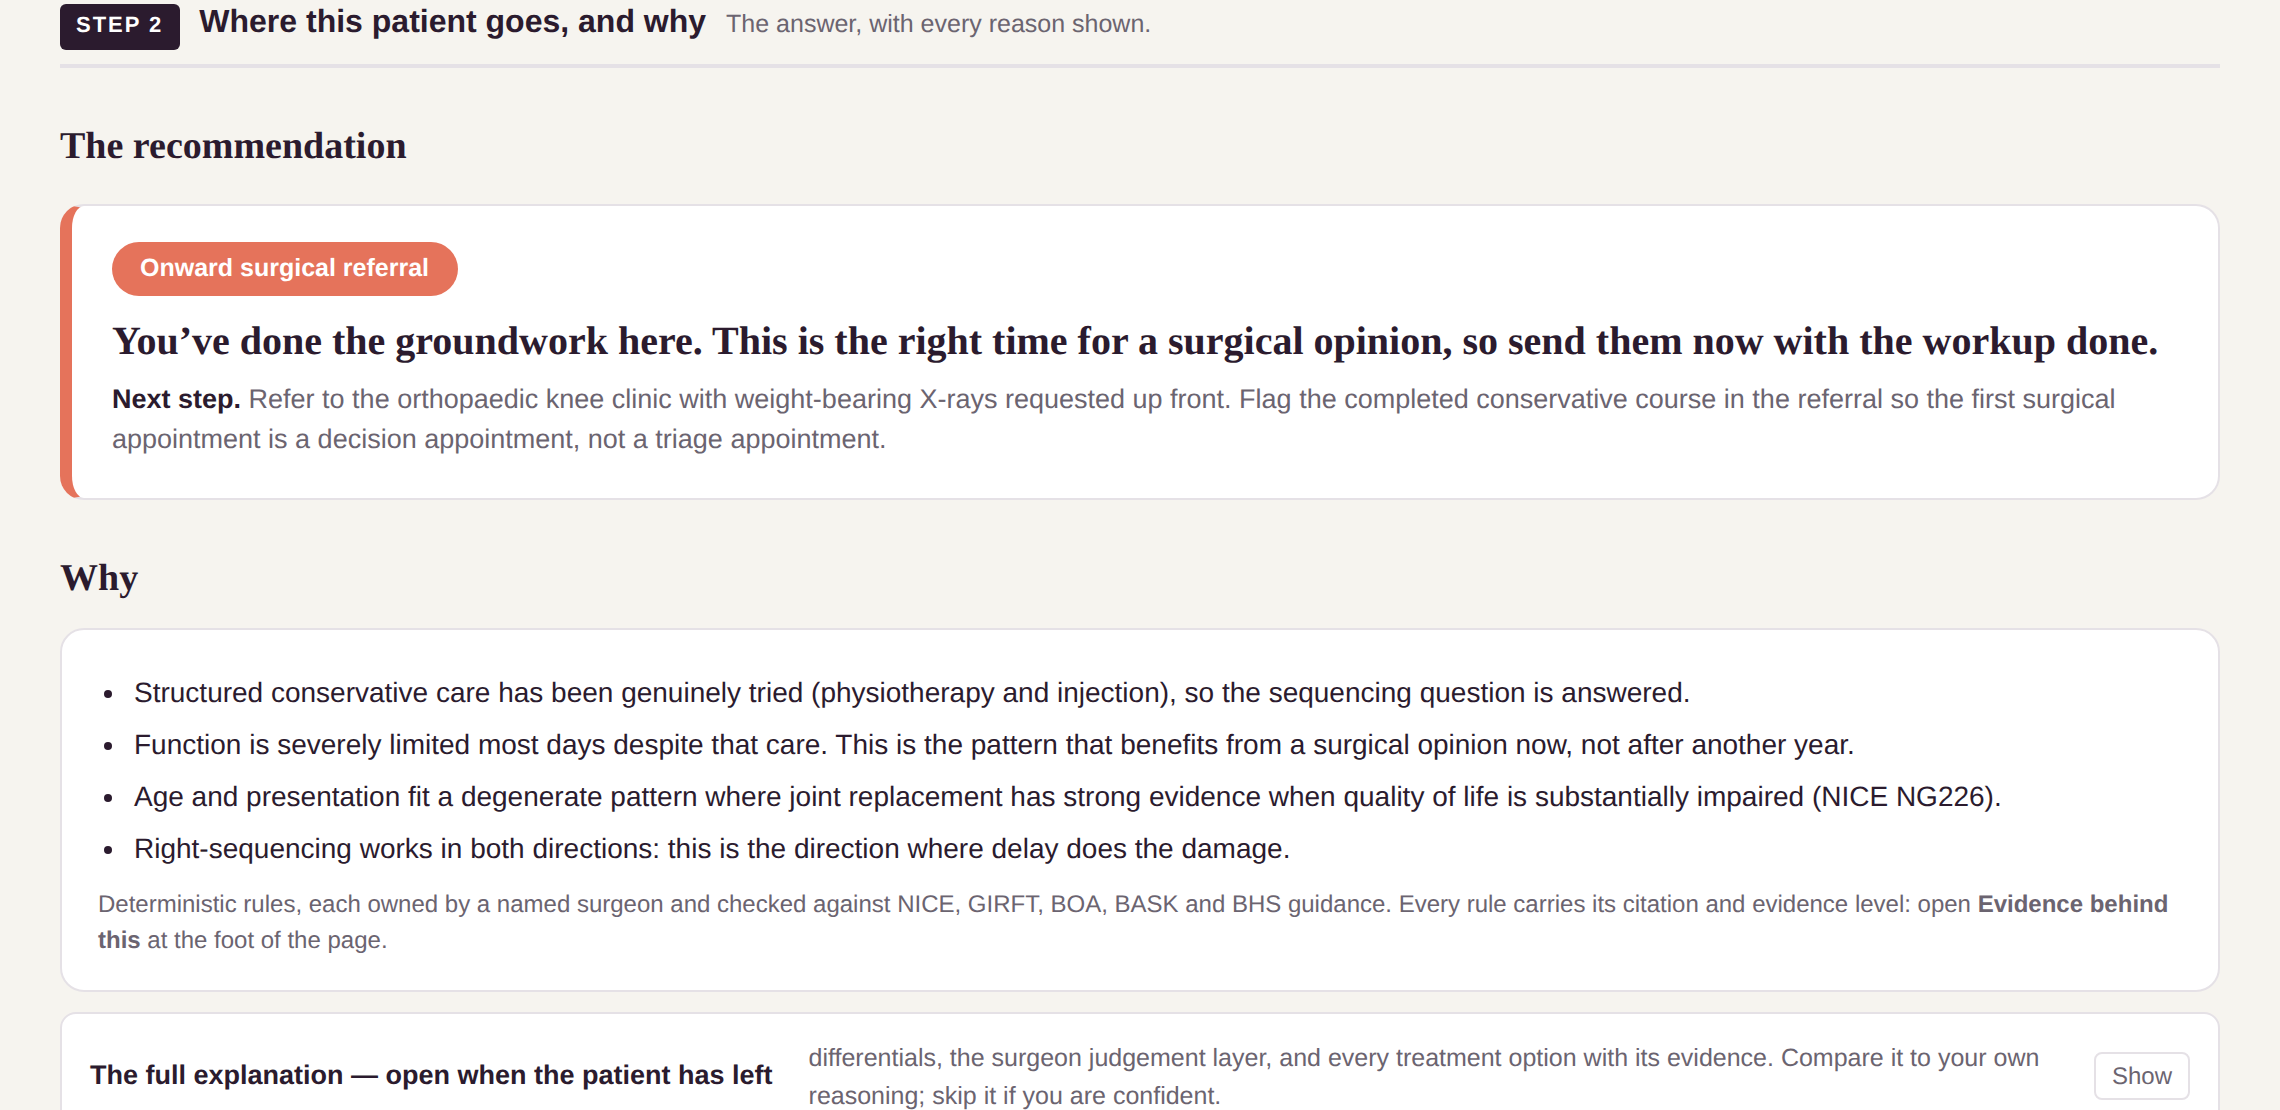
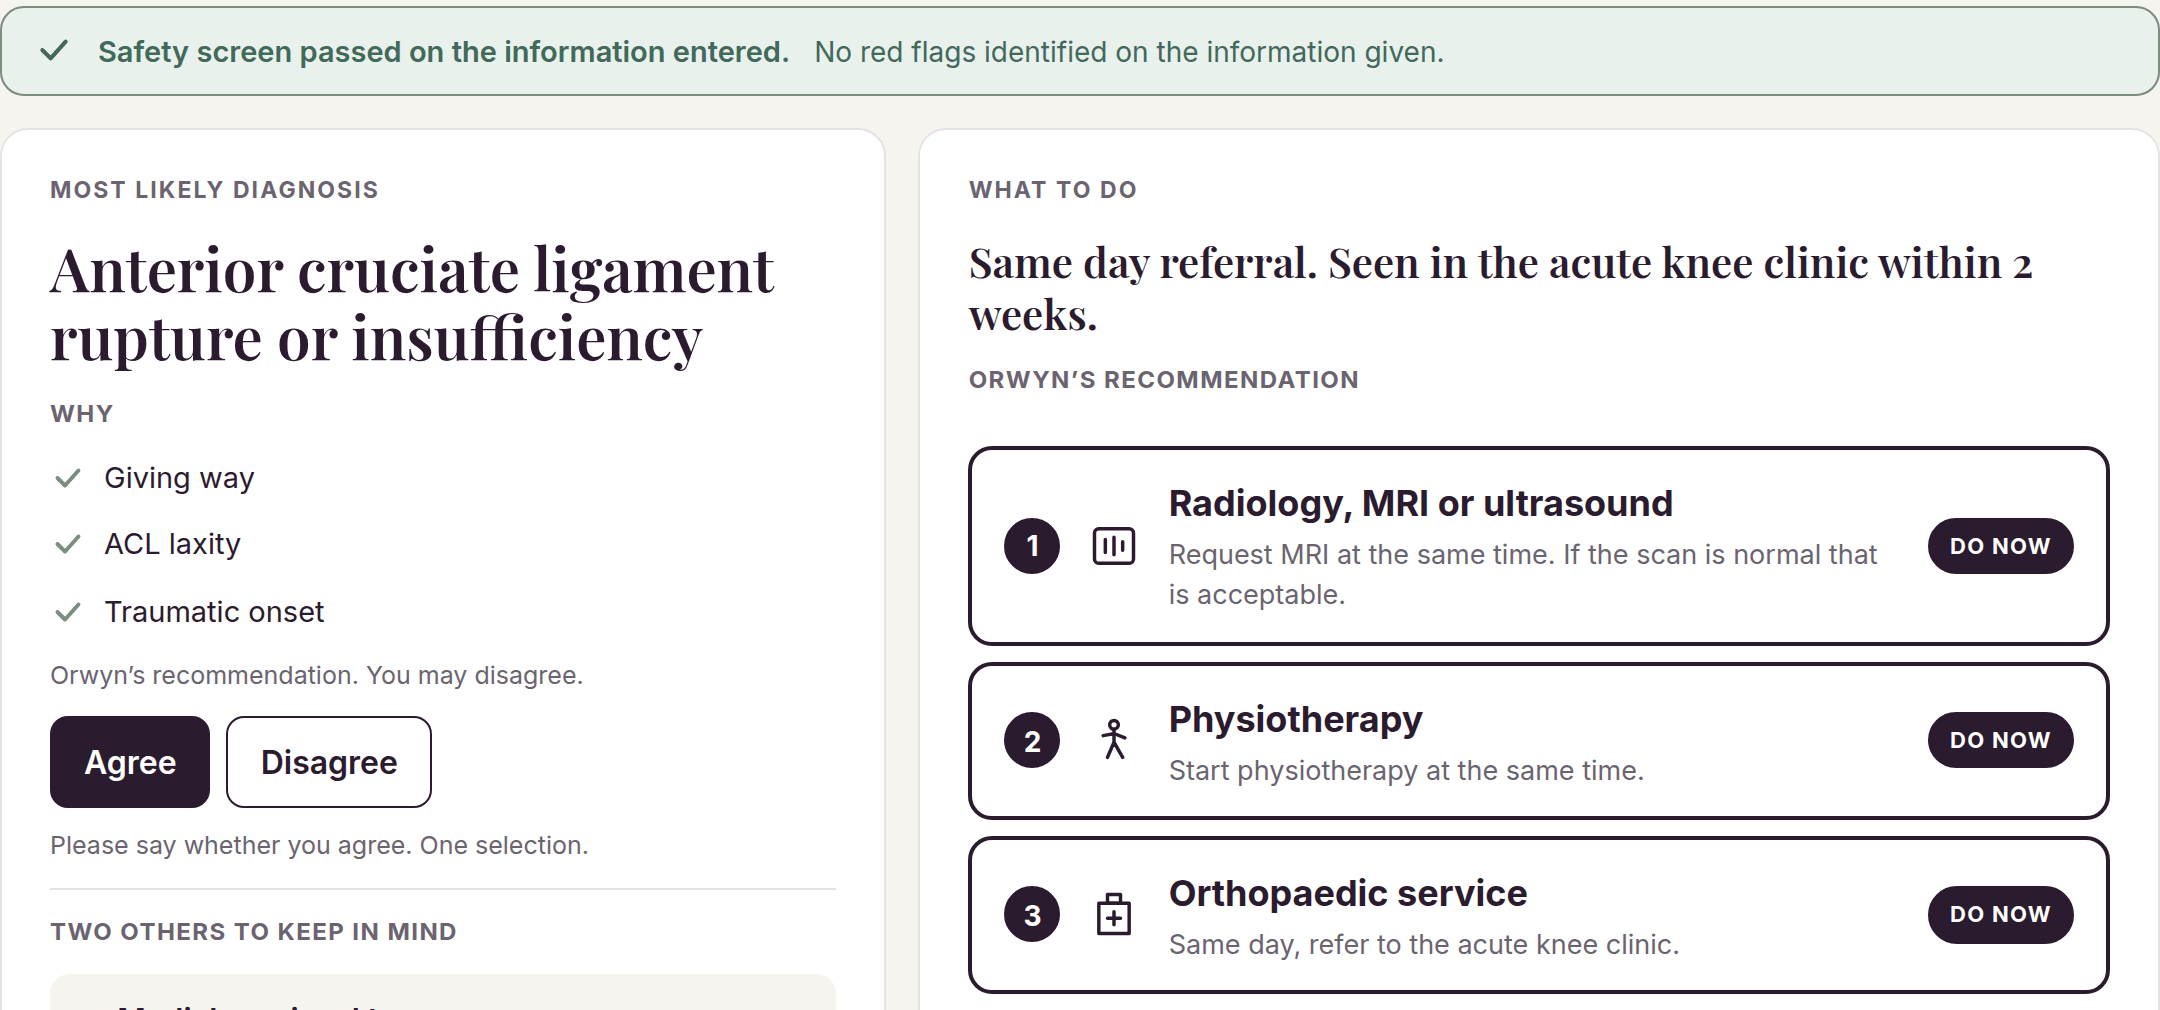
Screenshots: replace the pre-v0.10 picture with two from v0.12
product-decision-1440.png is now the v0.12 result screen for the ACL
injury case, 2160 by 1010, 83 KB, with new alt text. The picture it
replaces was from a build before v0.10 and carried two things that have
since been removed from the tool: the coaching line "You've done the
groundwork here", and the claim "checked against NICE, GIRFT, BOA, BASK
and BHS guidance". It also showed a badge and headline v0.12 no longer
draws, and the banned verb "flag".

A second picture, the severe osteoarthritis case, is added to
what-orwyn-does.html only, 2160 by 1100, 103 KB, following the existing
device-shot pattern, with the caption from the brand copy system.

No third picture: the patient letter has not been taken yet.

Both pages checked at 375px and at desktop width: no horizontal
overflow, both images load, captions legible. No audit figures, no
prices, nothing about the private practice, and the word AI appears
nowhere.

diff --git a/what-orwyn-does.html b/what-orwyn-does.html
@@ -171,9 +171,16 @@
     <figure class="device-figure reveal">
       <div class="device">
         <div class="device-bar"><span></span><span></span><span></span></div>
-        <img class="device-shot" loading="lazy" decoding="async" src="/product-decision-1440.png" width="2280" height="1110" alt="The Orwyn clinician tool: a referral decision with its reasons and rule numbers, the evidence each rule rests on, an override control, and what would change the answer. Synthetic sample data.">
+        <img class="device-shot" loading="lazy" decoding="async" src="/product-decision-1440.png" width="2160" height="1010" alt="The Orwyn clinician tool after a knee injury. It names the most likely diagnosis, an anterior cruciate ligament rupture, with the findings behind it, asks the clinician to agree or disagree, and recommends three actions to do now: request an MRI, start physiotherapy, and refer the same day to the acute knee clinic.">
       </div>
       <figcaption class="figcap">Real build, synthetic data. <a href="/demo">See the demo</a></figcaption>
+    </figure>
+    <figure class="device-figure reveal">
+      <div class="device">
+        <div class="device-bar"><span></span><span></span><span></span></div>
+        <img class="device-shot" loading="lazy" decoding="async" src="/product-result-severe-osteoarthritis.png" width="2160" height="1100" alt="The Orwyn clinician tool for severe knee osteoarthritis in a patient who would consider surgery. It recommends X-rays with the views listed and a referral now to the elective knee clinic, and shows that physiotherapy and an injection are already done.">
+      </div>
+      <figcaption class="figcap">The answer first, with the reasons shown. The clinician agrees or disagrees, and decides.</figcaption>
     </figure>
     <figure class="diagram orwyn-visual reveal">
 <svg class="wide-infographic" xmlns="http://www.w3.org/2000/svg" viewBox="0 0 1000 500" role="img" aria-labelledby="whatorwynd1T whatorwynd1D" fill="#2B1B2E">

diff --git a/index.html b/index.html
@@ -202,7 +202,7 @@
     <figure class="device-figure reveal">
       <div class="device">
         <div class="device-bar"><span></span><span></span><span></span></div>
-        <img class="device-shot" loading="lazy" decoding="async" src="/product-decision-1440.png" width="2280" height="1110" alt="The Orwyn clinician tool: a referral decision with its reasons and rule numbers, the evidence each rule rests on, an override control, and what would change the answer. Synthetic sample data.">
+        <img class="device-shot" loading="lazy" decoding="async" src="/product-decision-1440.png" width="2160" height="1010" alt="The Orwyn clinician tool after a knee injury. It names the most likely diagnosis, an anterior cruciate ligament rupture, with the findings behind it, asks the clinician to agree or disagree, and recommends three actions to do now: request an MRI, start physiotherapy, and refer the same day to the acute knee clinic.">
       </div>
       <figcaption class="figcap">Real build, synthetic data. <a href="/demo">See the demo</a></figcaption>
     </figure>
